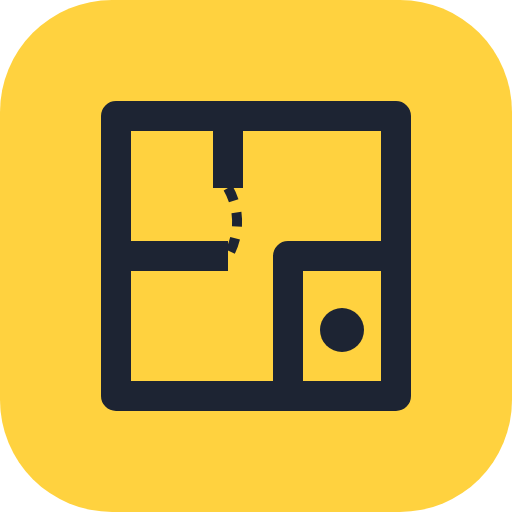
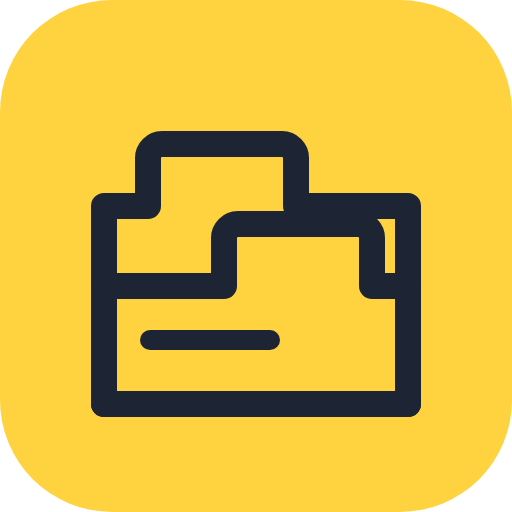
Startseite als Karteikasten statt Grundriss, neues App-Symbol
Claude-Session: https://claude.ai/code/session_01ERQjyKpV4HbSGgH6aiHZrM

Changed region(s): [[0.1562, 0.1875, 0.8438, 0.8125]]

diff --git a/app.js b/app.js
@@ -3,7 +3,7 @@
    Lager – Räume, Plätze und alles, was darin liegt.
    Läuft komplett im Browser, Daten bleiben in IndexedDB auf dem Gerät.
    ===================================================================== */
-const APP_VER = 'lager-1.0.0';
+const APP_VER = 'lager-1.1.0';
 
 const $ = (s, r = document) => r.querySelector(s);
 const $$ = (s, r = document) => [...r.querySelectorAll(s)];
@@ -52,7 +52,7 @@ const I = {
   dots: '<svg viewBox="0 0 24 24"><circle cx="12" cy="5" r="1.4"/><circle cx="12" cy="12" r="1.4"/><circle cx="12" cy="19" r="1.4"/></svg>',
   pin: '<svg viewBox="0 0 24 24" class="pin"><path d="M12 21s7-6.1 7-11.5A7 7 0 0 0 5 9.5C5 14.9 12 21 12 21z" fill="currentColor" stroke="none" opacity=".9"/><circle cx="12" cy="9.5" r="2.6" fill="var(--card)"/></svg>',
 };
-const LOGO = '<svg viewBox="0 0 48 48" aria-hidden="true"><rect x="2" y="2" width="44" height="44" rx="10" fill="#FFD23F"/><path d="M10 10h28v28H10z M10 24h11 M21 10v7 M27 24h11 M27 24v14" fill="none" stroke="#1D2433" stroke-width="3.6" stroke-linejoin="round"/><path d="M21 17a7 7 0 0 1 0 7" fill="none" stroke="#1D2433" stroke-width="1.6" stroke-dasharray="2 2"/></svg>';
+const LOGO = '<svg viewBox="0 0 48 48" aria-hidden="true"><rect x="2" y="2" width="44" height="44" rx="10" fill="#FFD23F"/><g fill="none" stroke="#1D2433" stroke-width="3" stroke-linejoin="round"><path d="M9 20h8v-6h12v6h10v18H9z"/><path d="M9 28h16v-5h11v5h3"/></g></svg>';
 
 /* =====================================================================
    Datenbank (IndexedDB, Rückfall: Arbeitsspeicher)
@@ -245,28 +245,21 @@ function emptyBox(title, text, btn = '') {
    ===================================================================== */
 const V = {};
 
-/* ---------- Start: Grundriss ---------- */
-function planRows(rooms) {
-  const rows = []; let i = 0, k = 0;
-  const pats = [[4, 2], [3, 3], [2, 4], [2, 2, 2]];
-  while (i < rooms.length) {
-    const left = rooms.length - i; let p;
-    if (left === 1) p = [6];
-    else if (left === 2) p = k % 2 ? [2, 4] : [4, 2];
-    else if (left === 3) p = k % 2 ? [3, 3] : [2, 2, 2];
-    else if (left === 4) p = k % 2 ? [3, 3] : [4, 2];
-    else p = pats[k % pats.length];
-    if (left === 3 && p.length === 2) p = [2, 2, 2];
-    const members = rooms.slice(i, i + p.length);
-    // größerer Raum bekommt das größere Zimmer
-    if (p.length === 2 && p[0] !== p[1]) {
-      const [a, b] = members; const na = itemsIn(a.id).length, nb = itemsIn(b.id).length;
-      if ((p[0] > p[1] && nb > na) || (p[1] > p[0] && na > nb)) p = [p[1], p[0]];
-    }
-    rows.push(members.map((room, j) => ({ room, span: p[j] })));
-    i += p.length; k++;
-  }
-  return rows;
+/* ---------- Start: Karteikasten ---------- */
+// Reiter-Positionen springen hin und her, damit sich benachbarte Reiter nicht verdecken
+const TABPOS = [0, 34, 12, 40, 4, 26, 18, 38];
+function cardStack() {
+  return `<div class="kk">${S.rooms.map((room, i) => {
+    const items = itemsIn(room.id); const hasLow = items.some(isLow);
+    const prev = items.slice().sort((a, b) => (b.created || 0) - (a.created || 0)).slice(0, 3);
+    const more = items.length - prev.length;
+    return `<a class="kc${TABPOS[i % TABPOS.length] === 0 ? ' t0' : ''}" href="#/room/${room.id}" style="--c:${room.color};--tx:${TABPOS[i % TABPOS.length]}%;z-index:${i + 1}">
+      <span class="kc-tab"><span class="kc-ic">${room.icon || '📦'}</span><span class="kc-name">${esc(room.name)}</span></span>
+      <span class="kc-line"></span>
+      <span class="kc-meta">${items.length ? plural(items.length, 'Ding', 'Dinge') : 'noch leer'}${hasLow ? '<span class="kc-warn">wird knapp</span>' : ''}</span>
+      <span class="kc-prev">${prev.length ? prev.map(it => `<span>${esc(it.name)}</span>`).join('') + (more > 0 ? `<span class="more">+${more}</span>` : '') : '<span class="ghost">Tippe, um einzuräumen</span>'}</span>
+    </a>`;
+  }).join('')}</div>`;
 }
 V.home = () => {
   if (!S.rooms.length) return V.welcome();
@@ -279,18 +272,6 @@ V.home = () => {
     lent ? `<a class="pill" href="#/lists/lent"><span class="dot lent"></span>${plural(lent, 'Ding', 'Dinge')} verliehen</a>` : '',
     bkDue ? `<a class="pill" href="#/more"><span class="dot bk"></span>Backup machen</a>` : '',
   ].join('');
-  const rows = planRows(S.rooms).map((row, ri) => `<div class="prow n${row.length}">${row.map(({ room, span }, ci) => {
-    const n = itemsIn(room.id); const hasLow = n.some(isLow);
-    const door = ri > 0 || ci === 0;
-    const dx = 14 + ((room.name.length * 7 + ci * 13) % (row.length === 3 ? 12 : 24));
-    return `<a class="room" href="#/room/${room.id}" style="--c:${room.color};--s:${span}">
-      ${door ? `<span class="door" style="--dx:${dx}px"></span>` : ''}
-      ${hasLow ? '<span class="r-warn" title="Etwas wird knapp"></span>' : ''}
-      <span class="r-ic">${room.icon || '📦'}</span>
-      <span class="r-name">${esc(room.name)}</span>
-      <span class="r-meta">${n.length ? plural(n.length, 'Ding', 'Dinge') : 'noch leer'}</span>
-    </a>`;
-  }).join('')}</div>`).join('');
   const recent = S.items.slice().sort((a, b) => (b.created || 0) - (a.created || 0)).slice(0, 10);
   return {
     tab: 'home',
@@ -302,9 +283,9 @@ V.home = () => {
     ${installBanner()}
     <a class="tape" href="#/search?focus=1">${I.search}<span class="ph">Wo ist …?</span></a>
     ${notes ? `<div class="notes">${notes}</div>` : ''}
-    <div class="plan-head"><h2>Grundriss</h2><span class="sub">Tippe auf einen Raum</span></div>
-    <div class="plan">${rows}</div>
-    <button class="annex" data-a="newRoom">${I.plus}Raum anbauen</button>
+    <div class="plan-head"><h2>Räume</h2><span class="sub">Tippe auf eine Karte</span></div>
+    ${cardStack()}
+    <button class="annex" data-a="newRoom">${I.plus}Raum hinzufügen</button>
     ${recent.length ? `<div class="section-h"><h2>Zuletzt eingeräumt</h2><a href="#/lists/all">Alle ansehen</a></div>
     <div class="strip">${recent.map(it => { const r = roomById(it.roomId); return `<a class="card-s" href="#/item/${it.id}">${thumb(it)}<b>${esc(it.name)}</b><small>${r?.icon || ''} ${esc(r?.name || '')}</small></a>`; }).join('')}</div>` : ''}
     `,
@@ -316,18 +297,19 @@ let starterPick = new Set(['Keller', 'Küche', 'Werkstatt']);
 V.welcome = () => ({
   tab: 'home',
   html: `<div class="welcome">
-    <div class="blue"><svg viewBox="0 0 340 150" fill="none" stroke="currentColor" stroke-linejoin="round">
-      <rect x="6" y="6" width="328" height="138" stroke-width="6"/>
-      <path d="M130 6v58 M6 82h124 M130 104v40 M220 6v138 M220 70h114" stroke-width="5"/>
-      <path d="M130 64a18 18 0 0 1 18 18" stroke-width="1.5" stroke-dasharray="3 3" opacity=".5"/><path d="M130 64v18" stroke-width="2" opacity=".5"/>
-      <path d="M220 96a18 18 0 0 0-18 18" stroke-width="1.5" stroke-dasharray="3 3" opacity=".5"/>
-      <g font-family="Bricolage Grotesque, sans-serif" font-size="13" fill="currentColor" stroke="none" opacity=".55" font-style="italic">
-        <text x="22" y="40">Keller?</text><text x="150" y="118">Werkstatt?</text><text x="238" y="44">Küche?</text></g>
-      <rect x="255" y="96" width="46" height="26" fill="#FFD23F" stroke="none" transform="rotate(-6 278 109)"/>
-      <text x="262" y="114" font-family="Bricolage Grotesque, sans-serif" font-weight="800" font-size="14" fill="#1D2433" stroke="none" transform="rotate(-6 278 109)">hier!</text>
+    <div class="blue"><svg viewBox="0 0 340 170" stroke-linejoin="round">
+      <g stroke="currentColor" stroke-width="2.5">
+        <path d="M20 38h86v-20a8 8 0 0 1 8-8h70a8 8 0 0 1 8 8v20h128v120H20z" fill="#C9CFD8"/>
+        <path d="M20 78h150v-20a8 8 0 0 1 8-8h76a8 8 0 0 1 8 8v20h98v80H20z" fill="#F7B58C"/>
+        <path d="M20 118h40v-20a8 8 0 0 1 8-8h96a8 8 0 0 1 8 8v20h188v40H20z" fill="#F2C98A"/>
+      </g>
+      <g font-family="Bricolage Grotesque, sans-serif" font-weight="800" font-size="16" fill="#1D2433">
+        <text x="122" y="32">Keller</text><text x="190" y="72">Küche</text><text x="78" y="112">Werkstatt</text></g>
+      <rect x="244" y="122" width="58" height="26" fill="#FFD23F" transform="rotate(-6 273 135)"/>
+      <text x="254" y="140" font-family="Bricolage Grotesque, sans-serif" font-weight="800" font-size="14" fill="#1D2433" transform="rotate(-6 273 135)">hier!</text>
     </svg></div>
     <h1>Wo liegt eigentlich die Bohrmaschine?</h1>
-    <p>Zeichne dir zuerst dein Zuhause: Tippe an, welche Räume es bei dir gibt. Danach räumst du ein, was drinnen liegt – mit Foto und genauem Platz.</p>
+    <p>Leg dir zuerst für jeden Raum eine Karteikarte an: Tippe an, welche Räume es bei dir gibt. Danach räumst du ein, was drinnen liegt – mit Foto und genauem Platz.</p>
     <div class="chips" style="margin-bottom:22px">${STARTER.map(([n, ic, c]) => `<button class="chip" style="--c:${c}" data-a="starter" data-n="${n}" aria-pressed="${starterPick.has(n)}">${ic} ${n}</button>`).join('')}</div>
     <button class="btn primary block" data-a="createStarter" ${starterPick.size ? '' : 'disabled'}>${starterPick.size ? `${plural(starterPick.size, 'Raum', 'Räume')} anlegen` : 'Räume antippen'}</button>
     <div style="text-align:center;margin-top:8px"><button class="linkbtn" data-a="newRoom">Eigenen Raum anlegen</button> <button class="linkbtn" data-a="importBackup">Backup laden</button></div>
@@ -360,12 +342,11 @@ V.room = (id) => {
   return {
     tab: 'home', addRoom: id,
     html: `<header class="hero" style="--c:${room.color}">
-      <div class="bar"><a class="icbtn" href="#/" aria-label="Zurück zum Grundriss">${I.back}</a>
+      <div class="bar"><a class="icbtn" href="#/" aria-label="Zurück zu den Räumen">${I.back}</a>
         <div class="bar-r"><button class="icbtn" data-a="shareRoom" data-id="${id}" aria-label="Inhaltsliste teilen">${I.share}</button><button class="icbtn" data-a="editRoom" data-id="${id}" aria-label="Raum bearbeiten">${I.edit}</button></div></div>
       <div class="h-ic">${room.icon || '📦'}</div>
       <h1>${esc(room.name)}</h1>
       <p>${items.length ? plural(items.length, 'Ding', 'Dinge') : 'Noch nichts eingeräumt'}${nPlaces ? ` an ${plural(nPlaces, 'Platz', 'Plätzen')}` : ''}</p>
-      <span class="door"></span>
     </header>
     ${items.length > 6 ? `<label class="field-search">${I.search}<input id="roomQ" type="search" placeholder="In ${esc(room.name)} suchen" value="${esc(q)}" autocomplete="off"></label>` : ''}
     <div id="roomBody">${body}</div>`,
@@ -600,7 +581,7 @@ V.more = () => {
     html: `<h1 class="big-h">Mehr</h1>
     <div class="group"><div class="stats"><div><b>${S.items.length}</b><span>Dinge</span></div><div><b>${pieces}</b><span>Stück</span></div><div><b>${nPh}</b><span>Fotos</span></div></div></div>
     <div class="group"><h3>Darstellung</h3><div style="padding:6px 16px 14px"><div class="seg" style="margin:0">${[['system', 'Automatisch'], ['light', 'Hell'], ['dark', 'Dunkel']].map(([k, l]) => `<button class="${k === theme ? 'on' : ''}" data-a="theme" data-t="${k}">${l}</button>`).join('')}</div></div></div>
-    <div class="group"><h3>Räume ordnen</h3><p class="p">Bestimmt, wie die Räume im Grundriss angeordnet sind.</p>
+    <div class="group"><h3>Räume ordnen</h3><p class="p">Bestimmt die Reihenfolge der Karten auf der Startseite.</p>
       ${S.rooms.length ? S.rooms.map((r, i) => `<div class="order-row"><span class="sw" style="--c:${r.color}"></span><span class="grow">${r.icon || ''} ${esc(r.name)}</span><button data-a="roomUp" data-id="${r.id}" ${i === 0 ? 'disabled' : ''} aria-label="Nach vorne">↑</button><button data-a="roomDown" data-id="${r.id}" ${i === S.rooms.length - 1 ? 'disabled' : ''} aria-label="Nach hinten">↓</button></div>`).join('') : '<p class="p">Noch keine Räume.</p>'}
     </div>
     <div class="group"><h3>Datensicherung</h3><p class="p">Alles bleibt nur auf diesem Handy gespeichert. ${bk ? `Letztes Backup: ${fmtDate(bk)}.` : 'Du hast noch kein Backup gemacht.'}</p>
@@ -615,7 +596,7 @@ V.more = () => {
   };
 };
 
-V.missing = () => ({ tab: 'home', html: emptyBox('Nicht mehr da', 'Dieses Ding oder dieser Raum wurde gelöscht.', '<a class="btn" href="#/">Zum Grundriss</a>') });
+V.missing = () => ({ tab: 'home', html: emptyBox('Nicht mehr da', 'Dieses Ding oder dieser Raum wurde gelöscht.', '<a class="btn" href="#/">Zu den Räumen</a>') });
 
 /* =====================================================================
    Router
@@ -709,7 +690,7 @@ function roomSheet(room, fromForm) {
   const body = () => `<div class="form">
       <div class="fl"><label for="rName">Name</label><input class="inp big" id="rName" value="${esc(R.name)}" placeholder="z. B. Keller" enterkeyhint="done"></div>
       <div class="fl"><span class="lbl">Symbol</span><div class="emojis">${EMOJIS.map(e => `<button type="button" class="${e === R.icon ? 'on' : ''}" data-e="${e}">${e}</button>`).join('')}</div></div>
-      <div class="fl"><span class="lbl">Farbe im Grundriss</span><div class="colors">${COLORS.map(([n, c]) => `<button type="button" class="${c === R.color ? 'on' : ''}" style="--c:${c}" data-c="${c}" aria-label="${n}"></button>`).join('')}</div></div>
+      <div class="fl"><span class="lbl">Farbe der Karte</span><div class="colors">${COLORS.map(([n, c]) => `<button type="button" class="${c === R.color ? 'on' : ''}" style="--c:${c}" data-c="${c}" aria-label="${n}"></button>`).join('')}</div></div>
     </div>`;
   openSheet(room ? 'Raum bearbeiten' : 'Neuer Raum', body(),
     `<button class="btn primary block" data-a="roomSave">${room ? 'Speichern' : 'Raum anlegen'}</button>${room ? `<button class="btn danger block" data-a="roomDel" data-id="${room.id}">${I.trash}Raum löschen</button>` : ''}`);
@@ -849,7 +830,7 @@ const actions = {
   createStarter: async () => {
     let o = 0;
     for (const [n, ic, c] of STARTER) if (starterPick.has(n)) await saveRoom({ id: uid(), name: n, icon: ic, color: c, places: [], order: o++, created: Date.now() });
-    toast('Grundriss steht. Jetzt einräumen!'); rerender();
+    toast('Räume angelegt. Jetzt einräumen!'); rerender();
   },
   newRoom: el => roomSheet(null, el.dataset.from === 'form'),
   editRoom: el => roomSheet(roomById(el.dataset.id)),

diff --git a/style.css b/style.css
@@ -31,7 +31,7 @@
     --paper: #121722; --paper-2: #192030; --card: #1A2232;
     --ink: #E8ECF3; --ink-2: #B4BDCC; --ink-3: #7F899B;
     --wall: #DCE2EC; --line: rgba(232, 236, 243, .13); --grid: rgba(232, 236, 243, .05);
-    --tint-mix: 40%; --nav-bg: #2A3448; --nav-ink: #E8ECF3;
+    --danger: #FF6B7A; --tint-mix: 40%; --nav-bg: #2A3448; --nav-ink: #E8ECF3;
     --shadow: 0 1px 0 rgba(0,0,0,.4), 0 10px 26px -14px rgba(0,0,0,.8);
     color-scheme: dark;
   }
@@ -40,7 +40,7 @@
   --paper: #121722; --paper-2: #192030; --card: #1A2232;
   --ink: #E8ECF3; --ink-2: #B4BDCC; --ink-3: #7F899B;
   --wall: #DCE2EC; --line: rgba(232, 236, 243, .13); --grid: rgba(232, 236, 243, .05);
-  --tint-mix: 40%; --nav-bg: #2A3448; --nav-ink: #E8ECF3;
+  --danger: #FF6B7A; --tint-mix: 40%; --nav-bg: #2A3448; --nav-ink: #E8ECF3;
   --shadow: 0 1px 0 rgba(0,0,0,.4), 0 10px 26px -14px rgba(0,0,0,.8);
   color-scheme: dark;
 }
@@ -123,60 +123,50 @@ h1, h2, h3 { font-family: var(--display); margin: 0; letter-spacing: -.01em; }
 .pill .dot.lent { background: #4D7CFE; }
 .pill .dot.bk { background: var(--tape-2); }
 
-/* ---------- Grundriss ---------- */
+/* ---------- Karteikasten ---------- */
 .plan-head { display: flex; align-items: baseline; justify-content: space-between; margin: 0 2px 10px; }
 .plan-head h2 { font-size: 1.15rem; font-weight: 700; }
 .plan-head .sub { font-size: .82rem; }
-.plan {
-  background: var(--wall);
-  padding: 5px; border-radius: 3px;
-  display: flex; flex-direction: column; gap: 5px;
-  box-shadow: var(--shadow);
-}
-.prow { display: flex; gap: 5px; min-height: 118px; }
-.prow.n3 { min-height: 108px; }
-.prow.n1 { min-height: 100px; }
-.room {
+.kk { padding-top: 38px; }
+.kc {
   --tint: color-mix(in oklab, var(--c) var(--tint-mix), var(--paper));
-  position: relative; min-width: 0;
-  flex: var(--s) 1 0;
+  position: relative; display: block; text-decoration: none; color: var(--ink);
   background: var(--tint);
-  padding: 14px 14px 12px;
-  display: flex; flex-direction: column; justify-content: flex-end;
-  text-decoration: none; color: var(--ink);
-  transition: filter .15s;
+  border-radius: 16px;
+  padding: 14px 16px 62px;
+  margin-top: -18px;
+  box-shadow: 0 -1px 0 rgba(0,0,0,.05), 0 -12px 20px -16px rgba(0,0,0,.55);
 }
-.room:active { filter: brightness(.94); }
-/* Tür: Öffnung in der Wand + Schwenkbogen wie im Bauplan */
-.room .door {
-  position: absolute; top: -5px; left: var(--dx, 22px);
-  width: 30px; height: 5px; background: inherit;
+.kc:first-child { margin-top: 0; }
+.kc:last-child { padding-bottom: 16px; box-shadow: 0 -1px 0 rgba(0,0,0,.05), 0 -12px 20px -16px rgba(0,0,0,.55), 0 10px 22px -16px rgba(0,0,0,.45); }
+.kc.t0 { border-top-left-radius: 0; }
+.kc:active { filter: brightness(.96); }
+.kc-tab {
+  position: absolute; bottom: 100%; left: var(--tx);
+  max-width: 64%; display: flex; align-items: center; gap: 7px;
+  background: var(--tint); border-radius: 13px 13px 0 0;
+  padding: 7px 16px 2px;
+  font-family: var(--display); font-weight: 800; font-stretch: 85%; font-size: 1.18rem; line-height: 1.5;
+  white-space: nowrap;
 }
-.room .door::after {
-  content: ""; position: absolute; top: 5px; left: 0;
-  width: 30px; height: 30px;
-  border-left: 2px solid var(--wall);
-  border-right: 1.2px dashed var(--wall);
-  border-bottom: 1.2px dashed var(--wall);
-  border-bottom-right-radius: 100%;
-  border-top: 0;
-  opacity: .42;
-}
-.room .door.r { left: auto; right: var(--dx, 22px); }
-.room .door.r::after { left: auto; right: 0; border-left: 1.2px dashed var(--wall); border-right: 2px solid var(--wall); border-bottom-right-radius: 0; border-bottom-left-radius: 100%; }
-.room .r-ic { font-size: 1.7rem; line-height: 1; position: absolute; top: 12px; right: 12px; }
-.room .r-name {
-  font-family: var(--display); font-weight: 800; font-stretch: 85%;
-  font-size: 1.32rem; line-height: 1.05; letter-spacing: -.015em;
-  overflow: hidden; text-overflow: ellipsis; white-space: nowrap;
-}
-.prow.n3 .room .r-name { font-size: 1.12rem; }
-.room .r-meta { font-size: .8rem; color: var(--ink-2); margin-top: 3px; font-style: italic; white-space: nowrap; overflow: hidden; text-overflow: ellipsis; }
-.room .r-warn { position: absolute; top: 14px; left: 14px; width: 9px; height: 9px; border-radius: 50%; background: var(--danger); box-shadow: 0 0 0 3px var(--tint); }
+.kc-tab::before, .kc-tab::after { content: ""; position: absolute; bottom: 0; width: 12px; height: 12px; }
+.kc-tab::before { left: -12px; background: radial-gradient(circle at 0 0, transparent 11.5px, var(--tint) 12px); }
+.kc-tab::after { right: -12px; background: radial-gradient(circle at 100% 0, transparent 11.5px, var(--tint) 12px); }
+.kc.t0 .kc-tab::before { display: none; }
+.kc-ic { font-size: 1.1rem; flex: none; }
+.kc-name { overflow: hidden; text-overflow: ellipsis; }
+.kc-line { display: block; height: 2px; border-radius: 2px; margin: 2px 0 10px; background: color-mix(in oklab, var(--danger) 42%, transparent); }
+.kc-meta { display: flex; align-items: center; gap: 10px; font-size: .84rem; color: var(--ink-2); font-style: italic; }
+.kc-warn { font-style: normal; font-weight: 700; color: var(--danger); display: inline-flex; align-items: center; gap: 5px; }
+.kc-warn::before { content: ""; width: 8px; height: 8px; border-radius: 50%; background: var(--danger); }
+.kc-prev { display: flex; flex-wrap: wrap; gap: 6px; margin-top: 9px; }
+.kc-prev span { background: color-mix(in oklab, var(--card) 72%, transparent); border-radius: 7px; padding: 3px 10px; font-size: .86rem; max-width: 100%; overflow: hidden; text-overflow: ellipsis; white-space: nowrap; }
+.kc-prev .more { font-weight: 700; }
+.kc-prev .ghost { background: transparent; padding-left: 0; color: var(--ink-3); }
 .annex {
   display: flex; width: 100%; align-items: center; justify-content: center; gap: 8px;
   margin-top: 12px; padding: 16px;
-  border: 2px dashed color-mix(in oklab, var(--ink) 45%, transparent); border-radius: 3px;
+  border: 2px dashed color-mix(in oklab, var(--ink) 40%, transparent); border-radius: 16px;
   background: transparent; color: var(--ink-2); font-weight: 700;
 }
 .annex svg { width: 18px; height: 18px; stroke: currentColor; stroke-width: 2.4; fill: none; }
@@ -237,15 +227,14 @@ h1, h2, h3 { font-family: var(--display); margin: 0; letter-spacing: -.01em; }
   margin: calc(-14px - var(--safe-t)) -16px 18px;
   padding: calc(14px + var(--safe-t)) 18px 22px;
   background: var(--tint);
-  border-bottom: 5px solid var(--wall);
+  border-radius: 0 0 26px 26px;
   position: relative;
 }
+.hero::after { content: ""; position: absolute; left: 18px; right: 18px; bottom: 14px; height: 2px; border-radius: 2px; background: color-mix(in oklab, var(--danger) 42%, transparent); }
 .hero .bar { display: flex; justify-content: space-between; align-items: center; margin-bottom: 18px; }
 .hero h1 { font-size: 2.6rem; font-weight: 800; font-stretch: 80%; line-height: .98; letter-spacing: -.02em; word-break: break-word; }
 .hero .h-ic { font-size: 3rem; line-height: 1; margin-bottom: 8px; }
 .hero p { margin: 8px 0 0; color: var(--ink-2); }
-.hero .door { position: absolute; bottom: -5px; right: 34px; width: 38px; height: 5px; background: inherit; }
-.hero .door::after { content: ""; position: absolute; bottom: 5px; right: 0; width: 38px; height: 38px; border-right: 2px solid var(--wall); border-left: 1.2px dashed var(--wall); border-top: 1.2px dashed var(--wall); border-top-left-radius: 100%; opacity: .4; }
 .icbtn {
   width: 42px; height: 42px; border-radius: 50%; border: 0;
   background: color-mix(in oklab, var(--card) 70%, transparent); color: var(--ink);
@@ -377,13 +366,13 @@ body.no-nav .nav { display: none; }
 .where {
   --tint: color-mix(in oklab, var(--c) var(--tint-mix), var(--paper));
   display: flex; align-items: stretch; gap: 0;
-  border: 4px solid var(--wall); border-radius: 3px; overflow: hidden;
+  border: 1.5px solid var(--line); border-radius: 18px; overflow: hidden;
   text-decoration: none; margin-bottom: 16px;
 }
 .where .w-room { background: var(--tint); padding: 12px 14px; flex: 1; min-width: 0; position: relative; }
 .where .w-k { font-size: .78rem; color: var(--ink-2); }
 .where .w-v { font-family: var(--display); font-weight: 800; font-size: 1.35rem; line-height: 1.1; font-stretch: 88%; overflow-wrap: anywhere; }
-.where .w-place { background: var(--card); padding: 12px 14px; flex: 1.2; min-width: 0; border-left: 4px solid var(--wall); position: relative; }
+.where .w-place { background: var(--card); padding: 12px 14px; flex: 1.2; min-width: 0; border-left: 2px dashed var(--line); position: relative; }
 .where .w-place .w-v { font-size: 1.2rem; }
 .where .pin { position: absolute; right: 10px; top: 10px; width: 22px; height: 22px; }
 
@@ -526,8 +515,4 @@ body.no-nav .toast { bottom: calc(90px + var(--safe-b)); }
 
 @media (prefers-reduced-motion: reduce) {
   *, *::before, *::after { animation: none !important; transition: none !important; }
-}
-@media (min-width: 560px) {
-  .prow { min-height: 140px; }
-  .room .r-name { font-size: 1.55rem; }
 }

diff --git a/index.html b/index.html
@@ -4,7 +4,7 @@
 <meta charset="utf-8">
 <meta name="viewport" content="width=device-width, initial-scale=1, viewport-fit=cover">
 <meta name="theme-color" content="#F3F5F0">
-<meta name="description" content="Dein Zuhause als Grundriss: Räume, Plätze und alles, was darin liegt – mit Suche und Fotos.">
+<meta name="description" content="Jeder Raum eine Karteikarte: Räume, Plätze und alles, was darin liegt – mit Suche und Fotos.">
 <meta name="mobile-web-app-capable" content="yes">
 <meta name="apple-mobile-web-app-capable" content="yes">
 <meta name="apple-mobile-web-app-status-bar-style" content="default">
@@ -27,7 +27,7 @@
 
 <nav id="nav" class="nav" aria-label="Hauptnavigation">
   <a href="#/" data-tab="home" class="nav-i">
-    <svg viewBox="0 0 24 24" aria-hidden="true"><path d="M3 4h18v16H3z M3 11h8 M11 4v5 M15 11h6 M15 11v9"/></svg>
+    <svg viewBox="0 0 24 24" aria-hidden="true"><path d="M3 9h3V6h6v3h9v11H3z M3 14h7v-2h6v2h5"/></svg>
     <span>Zuhause</span>
   </a>
   <a href="#/search" data-tab="search" class="nav-i">

diff --git a/tests/smoke.py b/tests/smoke.py
@@ -26,7 +26,7 @@ async def run(theme):
         await shot('01-welcome')
         await pg.click('[data-n="Garage"]'); await pg.click('[data-n="Bad"]'); await pg.click('[data-n="Wohnzimmer"]')
         await pg.click('[data-a="createStarter"]'); await pg.wait_for_timeout(300)
-        check(await pg.locator('.room').count() == 6, f'{theme}: 6 Räume im Grundriss')
+        check(await pg.locator('.kc').count() == 6, f'{theme}: 6 Raumkarten')
         # Ding mit Foto einräumen
         items = [('Keller', 'Regal links', 'Akkuschrauber Bosch', 1, 'Werkzeug, Akku'), ('Keller', 'Regal links', 'Weihnachtsdeko', 3, 'Kisten'),
                  ('Keller', 'Weinregal', 'Rotwein Zweigelt', 6, ''), ('Werkstatt', 'Wand', 'Schraubenzieher-Set', 1, 'Werkzeug'),
@@ -48,7 +48,7 @@ async def run(theme):
         check(len(await pg.evaluate("S.items")) == 7, f'{theme}: 7 Dinge gespeichert')
         await pg.goto(BASE + '#/'); await pg.wait_for_timeout(400)
         await shot('02-home')
-        await pg.click('.room:has-text("Keller")'); await pg.wait_for_timeout(300)
+        await pg.click('.kc:has-text("Keller")'); await pg.wait_for_timeout(300)
         await shot('04-room')
         check(await pg.locator('.shelf').count() == 2, f'{theme}: Keller hat 2 Plätze')
         await pg.click('.it:has-text("Akkuschrauber")'); await pg.wait_for_timeout(400)
@@ -66,7 +66,7 @@ async def run(theme):
         await pg.goto(BASE + '#/'); await pg.wait_for_timeout(200); await pg.click('.annex'); await pg.wait_for_timeout(400); await shot('08-newroom')
         # Zurück-Taste schließt das Sheet, ohne die Seite zu verlassen
         await pg.go_back(); await pg.wait_for_timeout(300)
-        check(await pg.locator('#sheet').is_hidden() and await pg.locator('.plan').count() == 1, f'{theme}: Zurück schließt Sheet')
+        check(await pg.locator('#sheet').is_hidden() and await pg.locator('.kk').count() == 1, f'{theme}: Zurück schließt Sheet')
         # Löschen + Rückgängig
         nid = await pg.evaluate("S.items.find(i=>i.name==='Nudeln').id")
         await pg.goto(BASE + '#/room/' + await pg.evaluate("S.items.find(i=>i.name==='Nudeln').roomId")); await pg.wait_for_timeout(200)

diff --git a/README.md b/README.md
@@ -1,6 +1,6 @@
 # Lager – Was liegt wo?
 
-Dein Zuhause als Grundriss: Räume anlegen (Keller, Küche, Werkstatt …), darin Plätze (Regal, Kiste, Lade) und alles, was dort liegt – mit Fotos, Menge, Schlagworten und Notiz. Die Suche findet jedes Ding samt Ort, auch bei Tippfehlern, Umlauten oder Mehrzahl.
+Jeder Raum eine Karteikarte: Räume anlegen (Keller, Küche, Werkstatt …), darin Plätze (Regal, Kiste, Lade) und alles, was dort liegt – mit Fotos, Menge, Schlagworten und Notiz. Die Suche findet jedes Ding samt Ort, auch bei Tippfehlern, Umlauten oder Mehrzahl.
 
 **App:** https://florianhess77.github.io/lager/
 
@@ -8,7 +8,7 @@ Dein Zuhause als Grundriss: Räume anlegen (Keller, Küche, Werkstatt …), dari
 In Chrome öffnen → ⋮ → **App installieren**. Danach startet Lager vom Startbildschirm ohne Browserleiste und funktioniert offline.
 
 ## Funktionen
-- Grundriss-Startseite mit allen Räumen (Farbe und Symbol frei wählbar, Reihenfolge unter *Mehr*)
+- Startseite als Karteikasten: jeder Raum eine Karte mit Reiter und Vorschau der letzten Dinge (Farbe, Symbol und Reihenfolge frei wählbar)
 - Plätze innerhalb eines Raums, umbenennen oder entfernen
 - Fotos direkt in der App aufnehmen oder aus der Galerie (bis zu 6 pro Ding)
 - Suche über Name, Schlagworte, Platz, Raum und Notiz – mit Spracheingabe
